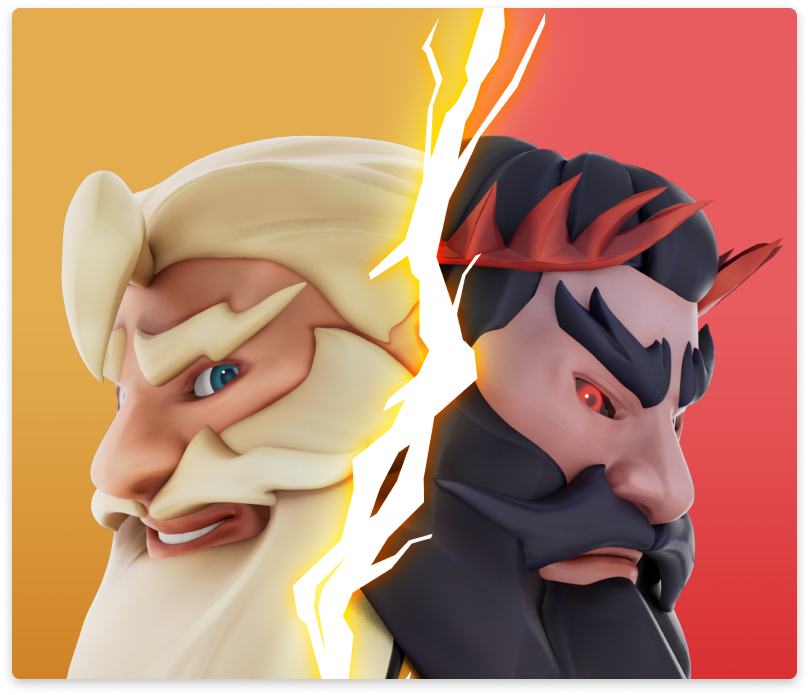
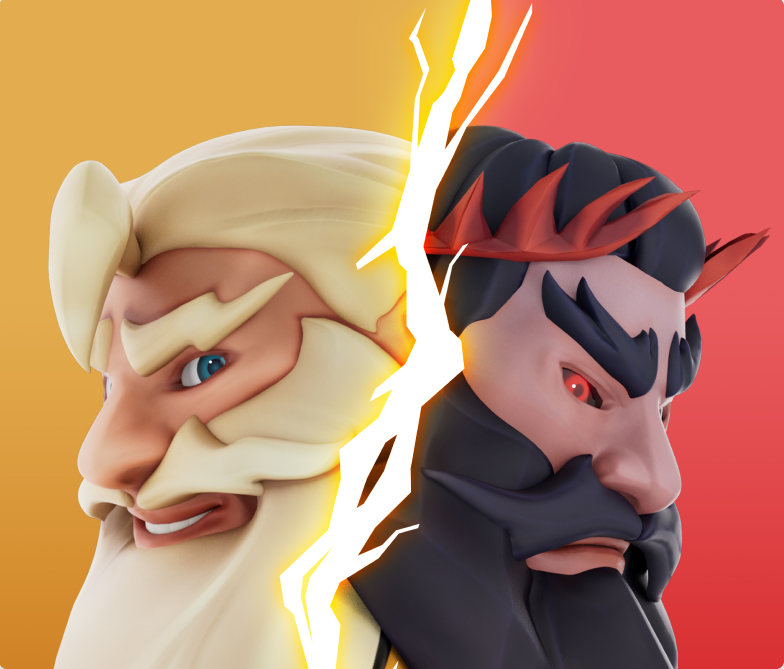
commit

diff --git a/assets/styles.css b/assets/styles.css
@@ -32560,7 +32560,7 @@ h1, p {
   left: 0;
   transform: translateY(-50%);
   height: 4px;
-  width: 100%;
+  width: 120%;
   z-index: -1;
 }
 
@@ -32679,7 +32679,7 @@ h1, p {
   display: block;
    height: 450px;
   position: absolute;
-  width: 100%;
+  width: 130%;
   margin-left: -12px;
 }
 .img_banner::before{
@@ -32688,7 +32688,7 @@ h1, p {
   display: block;
    height: 100%;
   position: absolute;
-  width: 100%;
+  width: 120%;
   margin-left: -12px;
 }
 .img_banner{
@@ -32717,4 +32717,23 @@ header.main .siteinfo h5 .img_logo {
   background-size: contain;
   height: auto;
   background-repeat: no-repeat;
+}
+.row{
+  margin: 0 !important;
+}
+#btn_download{
+  margin-bottom: 100px !important;
+}
+.container, .container-fluid, .container-lg, .container-md, .container-sm, .container-xl, .container-xxl{
+  padding:0 !important;
+}
+.pgs-foundation-layout .grid-system-row{
+  padding: 0 !important;
+}
+.justify-content-center{
+  padding: 0 !important;
+}
+#bg_tech{
+  margin-bottom: 50px;
+
 }

diff --git a/index.html b/index.html
@@ -245,7 +245,7 @@
                      <p>Build your base, grow your army and earn RUBY by
                       conquering enemy bases throughout Mavia.</p>
                     <div class="row justify-content-center d-flex">
-                      <div class="col-sm-6"><button class="btn btn-light" ><i class="fab fa-discord"></i>Join Discord</button></div>
+                      <div class="col-sm-12 d-flex justify-content-center"><button class="btn btn-light" ><i class="fab fa-discord"></i>Join Discord</button></div>
                     </div>
                  </div>
                 
